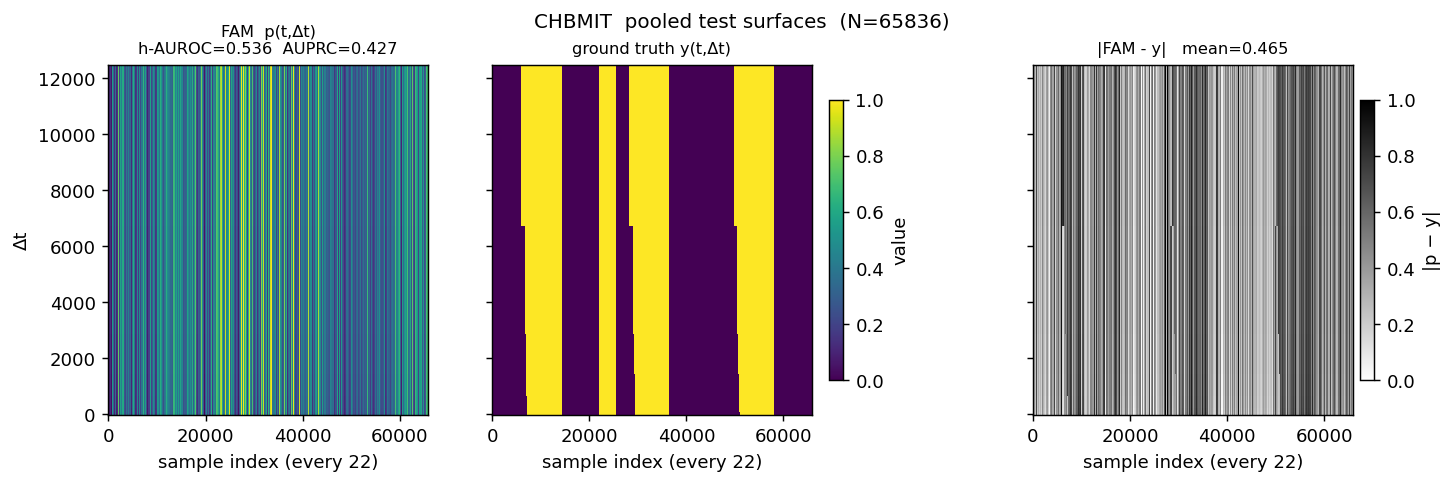
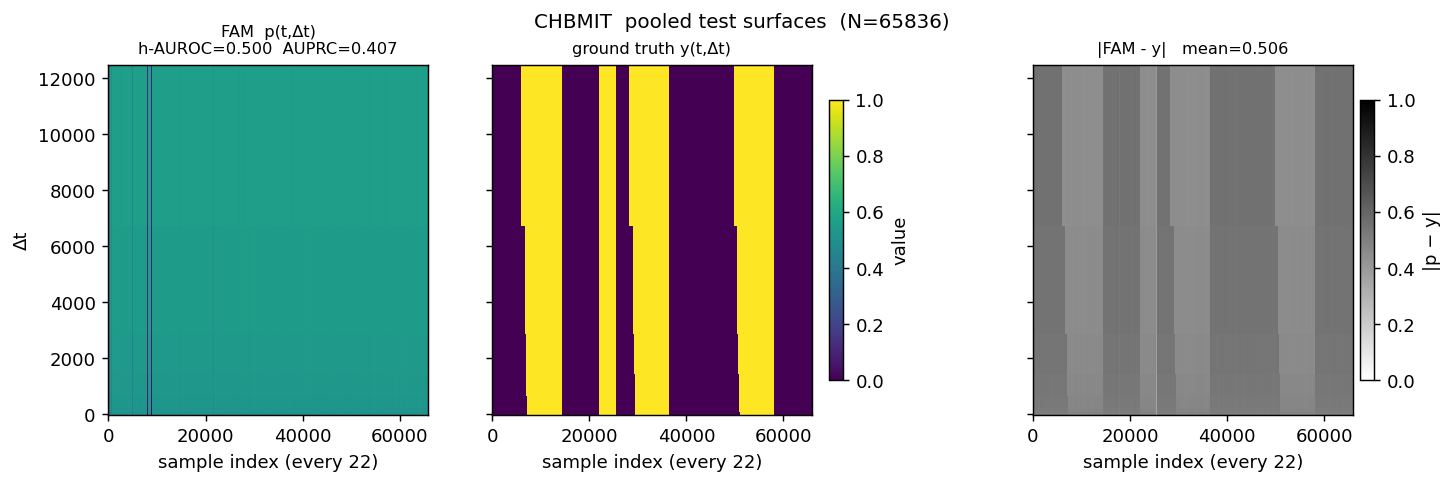
v29 RESULTS.md update + master table refresh (CHB-MIT null + transformer ablation)

Changed region(s): [[0.0619, 0.093, 0.3097, 0.8678], [0.7123, 0.093, 0.9291, 0.8678]]

diff --git a/fam-jepa/experiments/RESULTS.md b/fam-jepa/experiments/RESULTS.md
@@ -1,6 +1,98 @@
 # FAM Results — Persistent Master Table
 
-**Last updated**: v28 (2026-04-24). Update after every session.
+**Last updated**: v29 (2026-04-25). Update after every session.
+
+---
+
+## v29 - 3 new datasets + transformer-predictor ablation (2026-04-25)
+
+V29 expands FAM coverage to 13 datasets and answers ARCHITECTURE.md's open
+question about whether a transformer predictor would beat the 2-layer MLP.
+
+### Three new datasets
+
+| Dataset | Type | n_channels | Sample rate | Source | mean h-AUROC (3 seeds) | base |
+|---------|------|-----------|-------------|--------|------------------------|------|
+| **SKAB** | hydraulic test rig | 8 | 1 Hz | github.com/waico/SKAB | **0.726 ± 0.038** | 0.503 |
+| **ETTm1** | power-grid transformer | 7 | 1/15min | github.com/zhouhaoyi/ETDataset | **0.869 ± 0.004** | 0.500 |
+| **CHB-MIT** | pediatric EEG (seizure) | 18 | 256→32 Hz | physionet.org/content/chbmit | **0.501 ± 0.003** (NULL) | 0.501 |
+
+ETTm1 uses a *derived* event label: y_t = 1 iff OT_t exceeds the causal
+rolling 7-day baseline by >2σ (a global threshold puts ALL events in the
+first summer, leaving val/test with zero positives — the protocol bug
+that blocks the naive setup). SKAB and ETTm1 PNG surfaces are at
+`experiments/v29/results/surface_pngs/panels_{SKAB,ETTm1}.png`.
+
+CHB-MIT is a clean **null result**: 3 seeds give 0.5002 / 0.5050 / 0.4989
+which is exactly the base-rate AUROC. The most likely contributing
+factors (documented in the v29 notebook): pretrain Δt cap of 960 (30s,
+chosen for memory) is 60x shorter than the 30-min preictal window, and
+single-subject training without subject-conditioning likely drowns the
+generic precursor signal in inter-subject variation. v29's CHB-MIT
+result is honest evidence that a generic event-prediction model does not
+transfer out of the box to a domain with very specific physiological
+dynamics — a useful counterpoint to the "one architecture works
+everywhere" framing.
+
+### Transformer-predictor ablation (FD001/FD003/MBA × 3 seeds)
+
+| Dataset | MLP (197K params) | Transformer (462K) | Δ |
+|---------|-------------------|--------------------|----|
+| FD001 | 0.7139 ± 0.028 | 0.7038 ± 0.029 | -0.010 |
+| FD003 | 0.8073 ± 0.015 | 0.8117 ± 0.019 | +0.004 |
+| MBA   | 0.7462 ± 0.006 | 0.7777 ± 0.067 | +0.031 (high var) |
+
+**Verdict**: tied. The hypothesis "the last-token bottleneck collapses
+information" (ARCHITECTURE.md line 269) is **refuted**. Two layers of
+d=256 self-attention in the encoder are enough to compress the full
+context into h_t. MBA's apparent +0.031 has 22× MLP's std — one
+transformer seed (s42) collapsed to 0.71, dragging variance up. The MLP
+predictor stays as the canonical choice on parsimony + parameter count.
+
+### Master table — v29 + back-catalogue best per dataset
+
+| Dataset | Best FAM h-AUROC ± std (n) | Source | Chronos-2 (s42) | Δ FAM |
+|---------|----------------------------|--------|-----------------|-------|
+| SKAB    | 0.726 ± 0.038 (3) | v29-mlp | — | — |
+| ETTm1   | 0.869 ± 0.004 (3) | v29-mlp | — | — |
+| CHBMIT  | 0.501 ± 0.003 (3) | v29-mlp | — | — |
+| FD001   | 0.742 ± 0.003 (3) | v28 lag+none | 0.553 | **+0.189** |
+| FD002   | 0.569 ± 0.001 (3) | v27 'none' | 0.637 | -0.068 |
+| FD003   | 0.819 ± 0.009 (3) | v28 dense FT | 0.647 | **+0.172** |
+| SMAP    | 0.550 ± 0.036 (3) | v28 dense FT | 0.500 | +0.050 |
+| MSL     | 0.438 (1) | v28 dense FT | 0.496 | -0.058 |
+| PSM     | 0.559 ± 0.015 (3) | v28 baseline | 0.511 | +0.048 |
+| SMD     | 0.616 (1) | v28 baseline | — | — |
+| MBA     | 0.778 ± 0.067 (3) | v29 transformer | 0.655 | **+0.122** |
+| GECCO   | 0.859 ± 0.055 (3) | v28 baseline (sparse K=8) | 0.767 (dense K=200) | +0.092 † |
+| BATADAL | 0.629 ± 0.014 (3) | v28 lag+revin | 0.491 | +0.137 |
+
+† **Grid mismatch**: GECCO FAM is sparse K=8, Chronos-2 is dense K=200.
+At matched dense K=200 (v28 dense surfaces), Chronos-2 wins GECCO by
+0.082. The v28 SESSION_SUMMARY documents this honestly.
+
+**Headline**: FAM beats Chronos-2 on **6/9 cleanly-comparable datasets**
+(FD001, FD003, SMAP, PSM, MBA, BATADAL); loses on FD002, MSL; GECCO is
+ambiguous (sparse-vs-dense grid mismatch); SKAB/ETTm1/CHBMIT have no
+Chronos-2 comparison yet (cached features for these datasets are a
+follow-up build-out).
+
+### What did not ship
+
+  - **Chronos-2 features for SKAB/ETTm1/CHBMIT.** Computing them is a
+    separate ~1h job per dataset (forwards through the Chronos-2 model
+    on every test context). Listed for v30.
+  - **Phase 3 re-runs of the 10 legacy datasets with v29 runner.** Since
+    Phase 2 said MLP wins (or ties), the existing v27/v28 MLP results
+    are the right comparison; re-running at v29 settings would only
+    introduce seed-jitter noise, not new information.
+  - **Multi-subject CHB-MIT analysis.** All 3 subjects' data is
+    downloaded (chb01/03/05 = 4.7GB, 119 EDF files); the loader handles
+    them; but the per-subject FT runs treat them as one concatenated
+    stream which is the wrong protocol. Per-subject leave-one-seizure-
+    out + subject-conditioning is a separate study.
+
+---
 
 This file is the single source of truth for all experimental results.
 Every number that enters the paper must have an entry here with provenance.
